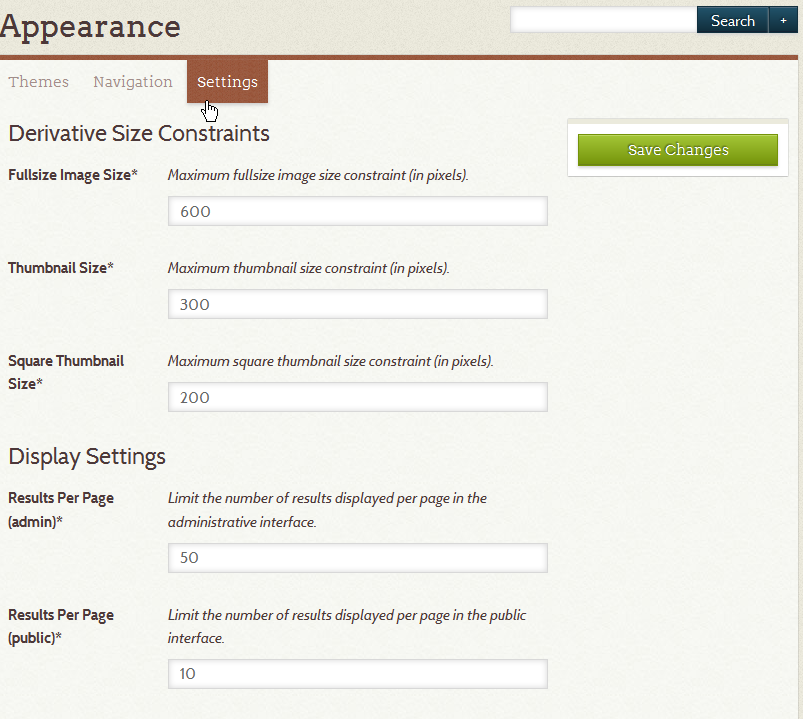
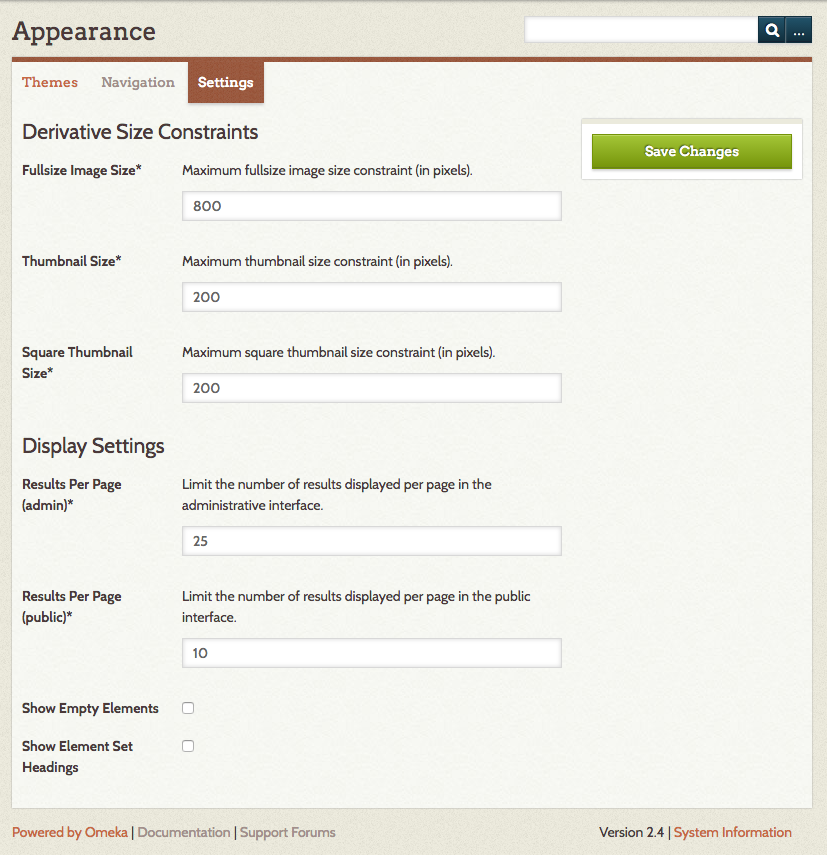
Appearance Settings
update text, add images (checking to make sure the internal links work)

Changed region(s): [[0.0, 0.0, 0.9963, 1.0], [0.2179, 0.6732, 0.6538, 0.7955]]

diff --git a/Managing_Appearance_Settings_2.md b/Managing_Appearance_Settings_2.md
@@ -1,29 +1,41 @@
 Managing Appearance Settings 2.0
 ================================
 
-
-Settings in the Appearance section help you to manage derivative image
-sizes and some display settings for items.
+The Settings sub-tab in the Appearance section help you to manage derivative image sizes and adjust some of the display settings for items on the public and admin sides. It is divided into two sections: *Derivative Size Constraints* and *Display Settings*
 
 
-![All appearance settings, screen cap.](/files/Appearancesettings.png)
+![All appearance settings, screen cap.](/doc_files/appearanceSettings.png)
 
 Derivative Size Constraints
 ----------------------------------------------------------------
+In this section, you can set the default maximum image sizes for Fullsize, Thumbnails, and Square Thumbnails in pixels for the longest side of the image. 
 
-You are given the option to set the maximum image sizes for Fullsize, Thumbnails, and Square Thumbnails in pixels for the longest side of the image. By default the following sizes are set, but you may change them:
+Note that these settings are general for the install - the size at which thumbnails display on item browse, exhibit, and other pages may also depend on which theme you are using.
 
--   Fullsize Image: 600px;
--   Thumbnail: 300 px;
--   Square Thumbnail: 200 px.
+These following are the default settings for the three size constraints, in pixels
+
+-   Fullsize Image: 600;
+-   Thumbnail: 300;
+-   Square Thumbnail: 200.
+
+To make changes, simply type a number into the corresponding text field.
 
 Please note that changes to these settings will only affect files uploaded after you have made the changes; it does not retroactively re-size existing files. If you want to change existing files, you will need to install the [Derivative Images plugin](/Plugins/DerivativeImages.md)
 
-Those with access to the serve files may also [manage thumbnail creation settings](/Configuring_Thumbnail_Creation)
+Those with access to the server files can also [manage thumbnail creation settings](/Configuring_Thumbnail_Creation.md) to change where thumbnails crop the image (see linked documentation for more information)
 
 Display Settings
 ----------------------------------------------------------------
+These settings relate to the display of results on the public and admin sides and some aspects of metadata display on the public side. 
 
--   Results Per Page: You may edit the number of items to be displayed per page in both the admin and public items/browse pages by changing the "Results per Page" settings. The default number is 10 for both.
--   Show Empty Elements: If you wish to only show metadata fields containing data on the public pages, do not check this box. The default setting is unchecked. If you wish show all metadata (empty and filled) fields, check this box.
-- Show Element Set Headings: If you do not wish the element set headings (e.g. "Dublin Core," "Person Item Type Metadata") to display on the public pages of the site, uncheck this box. The default setting is checked.
+**Results per page (admin)** sets the number of results on the admin-side browse pages for items, collections, and exhibits. The default is 10.
+
+**Results per page (public)** sets the number of results on the public-side browse pages for items, collections, and exhibits. The default is 10.
+
+**Show Empty Elements** determines whether you want to show empty metadata fields on the public pages. The default setting is unchecked. If you wish show all metadata (empty and filled) fields, check this box. The image below shows how empty elements display on a public item show page.
+
+![Item show page with empty elements displayed. Each empty element has “no text” where the input would be](/doc_files/showEmptyElm.png)
+
+**Show Element Set Headings** Unchecking this box will remove the element set headings (e.g. "Dublin Core," "Person Item Type Metadata") from display on the public pages of the site, uncheck this box. The default setting is checked. The image below shows the Dublin Core heading on a public item show page.
+
+![Item show page with heading Dublin Core above item title](/doc_files/showElmSet.png)
